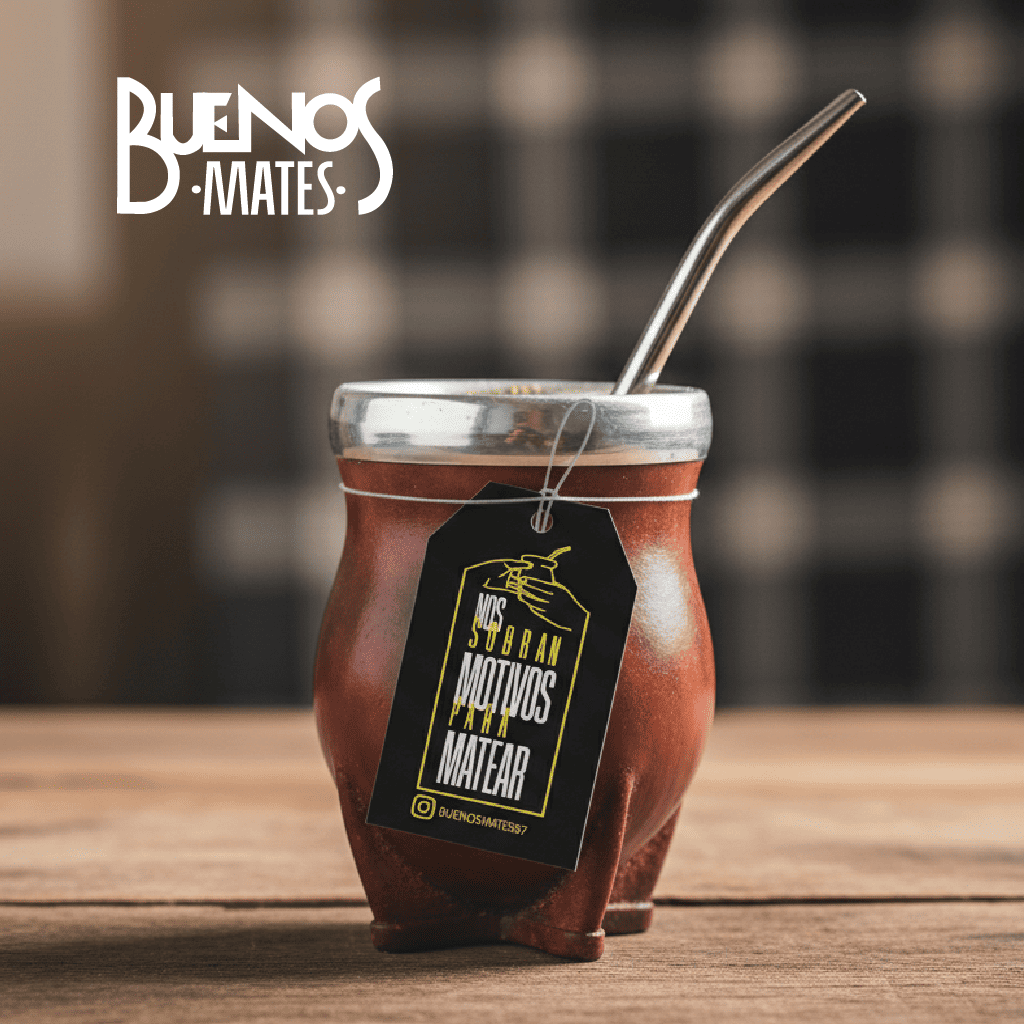
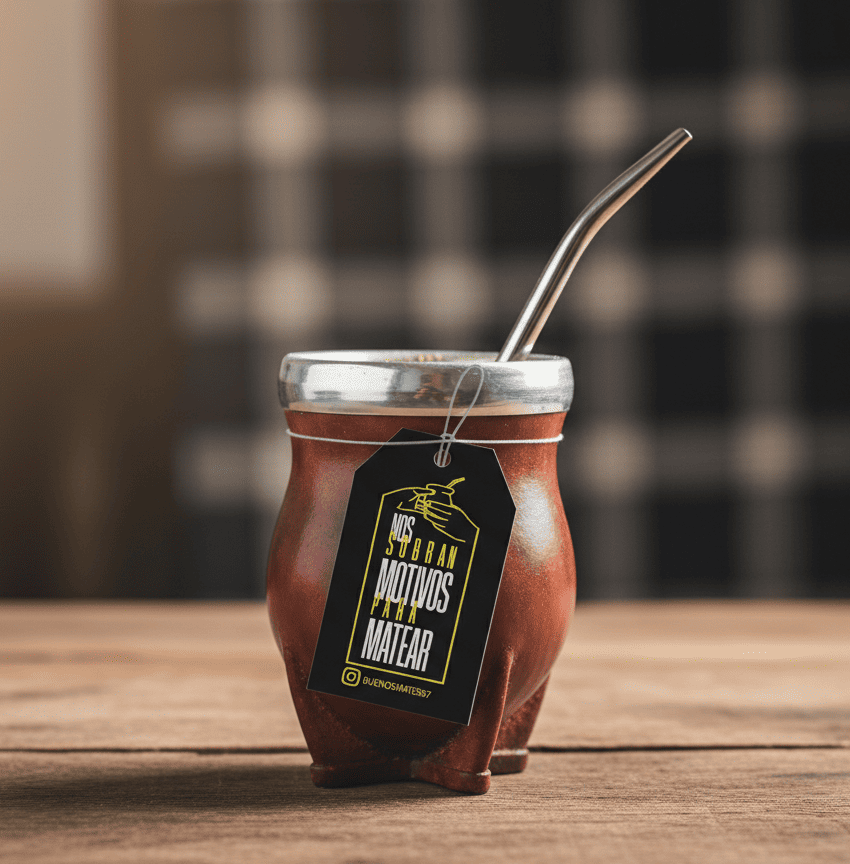
Update packaging showcase image and text
Swap the 'Mate Lifestyle' asset for the new packaging artwork and update the on-page copy. The PackagingShowcase now uses /images/packaging-alfajores.png with updated alt text, heading, and subcopy. Added the new packaging-alfajores.png asset, removed the obsolete public/apple-icon.png, and replaced/updated the mate-pouring.png binary asset.

diff --git a/components/packaging-showcase.tsx b/components/packaging-showcase.tsx
@@ -71,16 +71,16 @@ export function PackagingShowcase() {
           {/* Mate Lifestyle */}
           <div className="group relative aspect-square overflow-hidden rounded-lg">
             <Image
-              src="/images/mate-pouring.png"
-              alt="Preparando mate - Lifestyle Buenos Mates"
+              src="/images/packaging-alfajores.png"
+              alt="Alfajores para acompañar | Lifestyle Buenos Mates"
               fill
               className="object-cover transition-transform duration-700 group-hover:scale-105"
               sizes="(max-width: 768px) 100vw, 50vw"
             />
             <div className="absolute inset-0 bg-gradient-to-t from-background/80 to-transparent" />
             <div className="absolute bottom-0 left-0 flex flex-col gap-2 p-6">
-              <h4 className="font-serif text-2xl font-bold text-foreground">Nos sobran motivos</h4>
-              <p className="text-sm text-primary">para matear</p>
+              <h4 className="font-serif text-2xl font-bold text-foreground">Alfajores</h4>
+              <p className="text-sm text-primary">para tomar unos Buenos Mates</p>
             </div>
           </div>
         </div>
